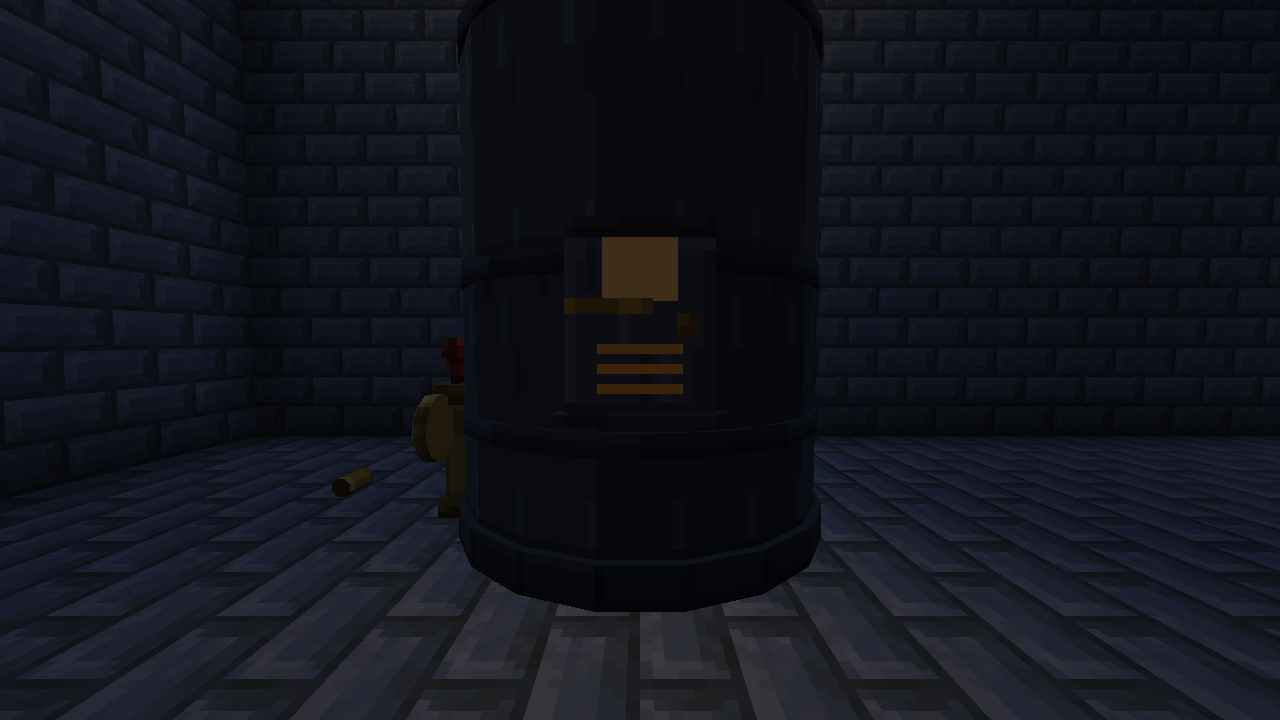
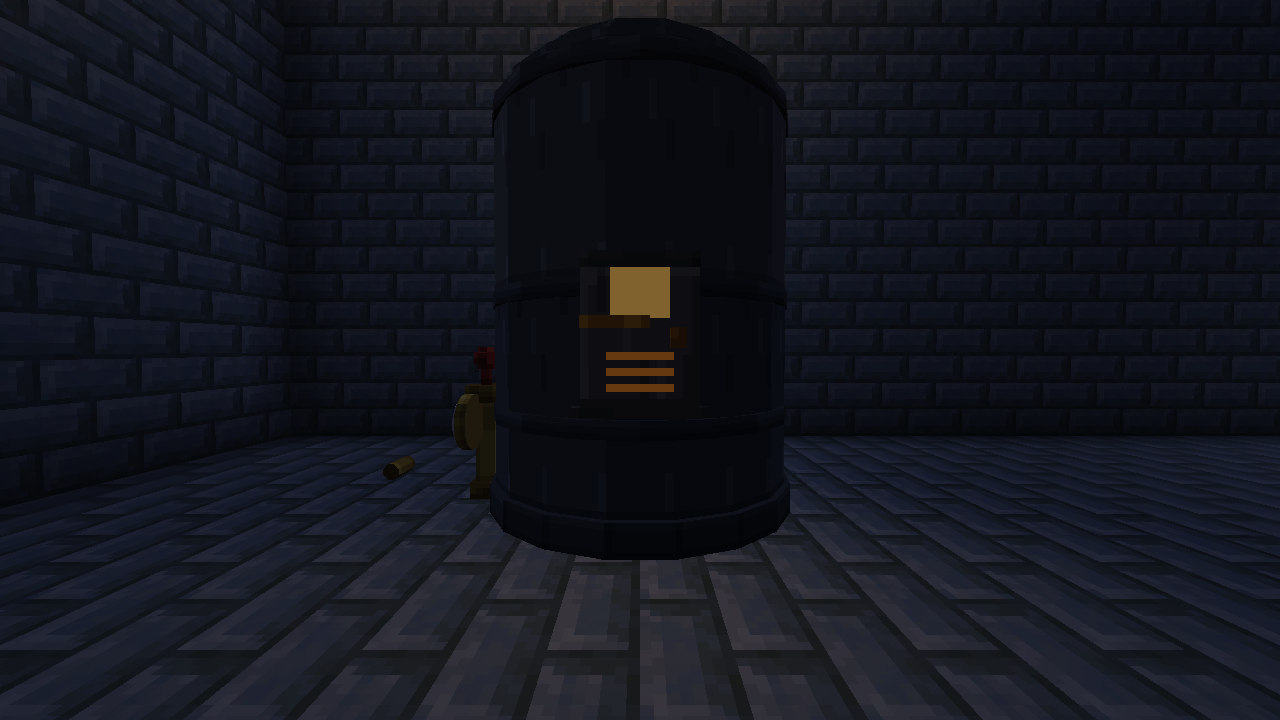
c164-snow: machines/switchboard-boiler: the card records the real cause cr3's rejection exposed -- glow is a colour, emit is the light -- and the four smaller fixes

diff --git a/c164-realms/plan/packages/machines/switchboard-boiler.md b/c164-realms/plan/packages/machines/switchboard-boiler.md
@@ -49,3 +49,19 @@
 3. `board_slant`·四件比例：闸刀（1.1 倍）、表（1.0）、瓷瓶（1.0）三个 scale 并用，近看闸刀的像素比表略粗（1.1 对 1.0），16 像素一格是对的，但**两个件的格子大小肉眼差半像素**。
 
 **待真机**：炉口在真机上的暖光强度和 V6 透过窗看到的红热程度。
+
+**cr3 退回后的整改（11-16）—— 其中一条是本包真正的 bug**
+
+cr3 的退回理由是「`fire_door` 拍的是门的背面，炉火一个像素都没有」。它查的方向（机位看短了）对，**但根因在模型里**：
+
+1. **真正的 bug：炉口没有 `emit`。** `_door()` 里那块「膛口」和三条「通风槽」我用的是 `glow` 材质画的，**但没有给 `emit=`**。`glow` 只是色板里的一个暖色系，`emit` 才是元素级的 `light_emission`。没有 `emit`，离线渲染器就把这几块当普通方块照房间的光画——**所以不管从哪个机位看，都没有火**。cr3 量到的「帧内最亮像素是冷蓝 (64,69,97)」正是这个原因。
+   现在：膛口 `emit=15, shade=False`、三条通风槽 `emit=11, shade=False`。改完**最亮像素从冷蓝 (64,69,97) 变成暖色 (127,98,45)**，图上能看到发光的膛口和一条条通风槽。
+   **这条值得全组看**：用 `glow`/`phosphor` 这类暖色材质**不等于**它在发光；`emit` 是另一个字段，漏了就一点光都没有，而且离线图上只会表现为「这块颜色偏暖但和墙一样暗」，很容易被当成打光问题。
+2. **机位**（cr3 的原判断）：`fire_door` / `fire_slant` / `fire_far` 的 `look_at` 原来停在 `bx_-1.4`，即锅炉轴心（`bx_`）以西 1.4 格——**视线在锅炉本体之前就结束了**。三个都改成瞄轴心 `bx_`；`fire_door` 退到 5 格，正对门面。
+3. **门离鼓面太近**：门原来只比鼓面外 0.07 格，正面看会被鼓自己的轮廓吃掉。把门推到 `-0.16` 格（更外一点）。
+4. **配电板没有亮点、没有进线来路**（cr3 最弱第 2 条）：
+   - 加了一根**从板顶进墙的铁导管**（`_frame()` 里，立管 + 弯头 + 一个黄铜箍）——「电有来路」现在是看得见的。
+   - 测试场景在**板前那一格**加了一盏 **6 级（rank 3）**光——和 starhall 那边 `ASK_BOARD=(5,3)` 同一个数。cr3 说得对：两处该一致。
+5. `fire_far` 那张（锅炉只 20 多像素、读成黑柱子）**不改**，但按 cr3 要求在卡上写清：**它是「远看能不能认出来」的图，不是近景验收图**。
+
+**验收状态（整改后）**：`check.py --scene obs_mach_switchboard_boiler` PASS 0 失败 1 黄（flatwall 6 面，盒子墙）；6 张全部重出；`--verify` 6/6；`delivery.py` 七项全 PASS。
